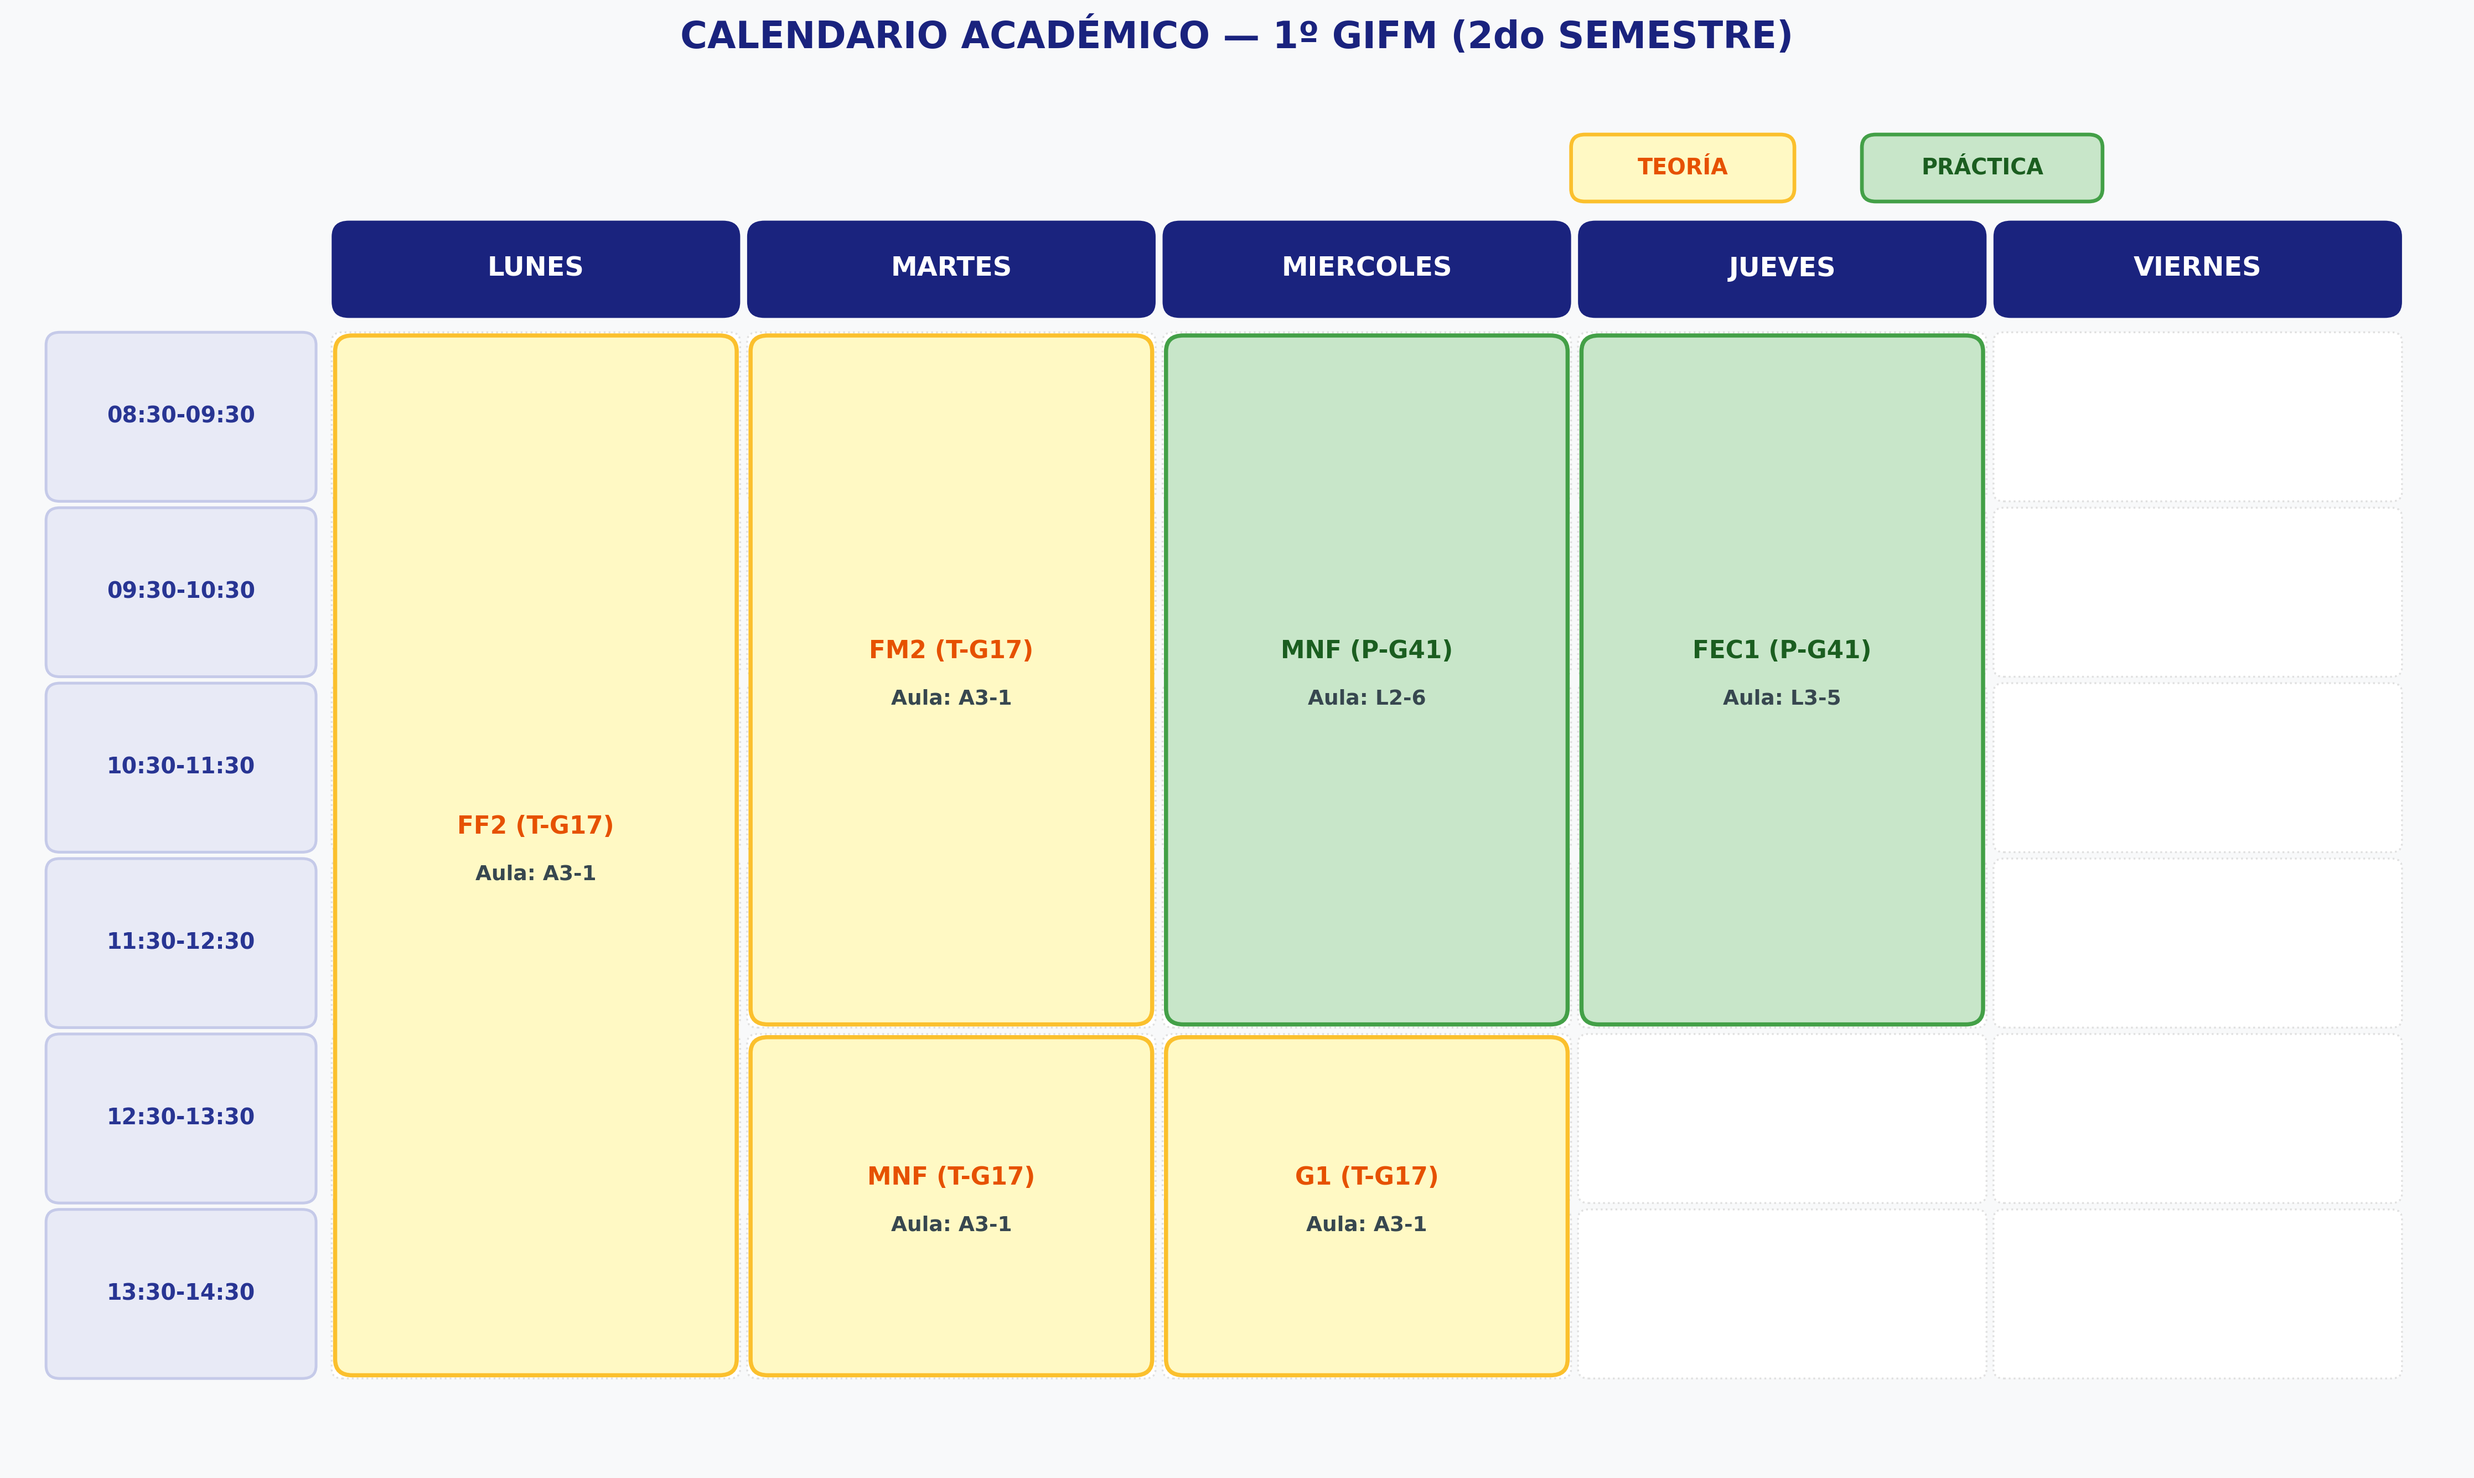
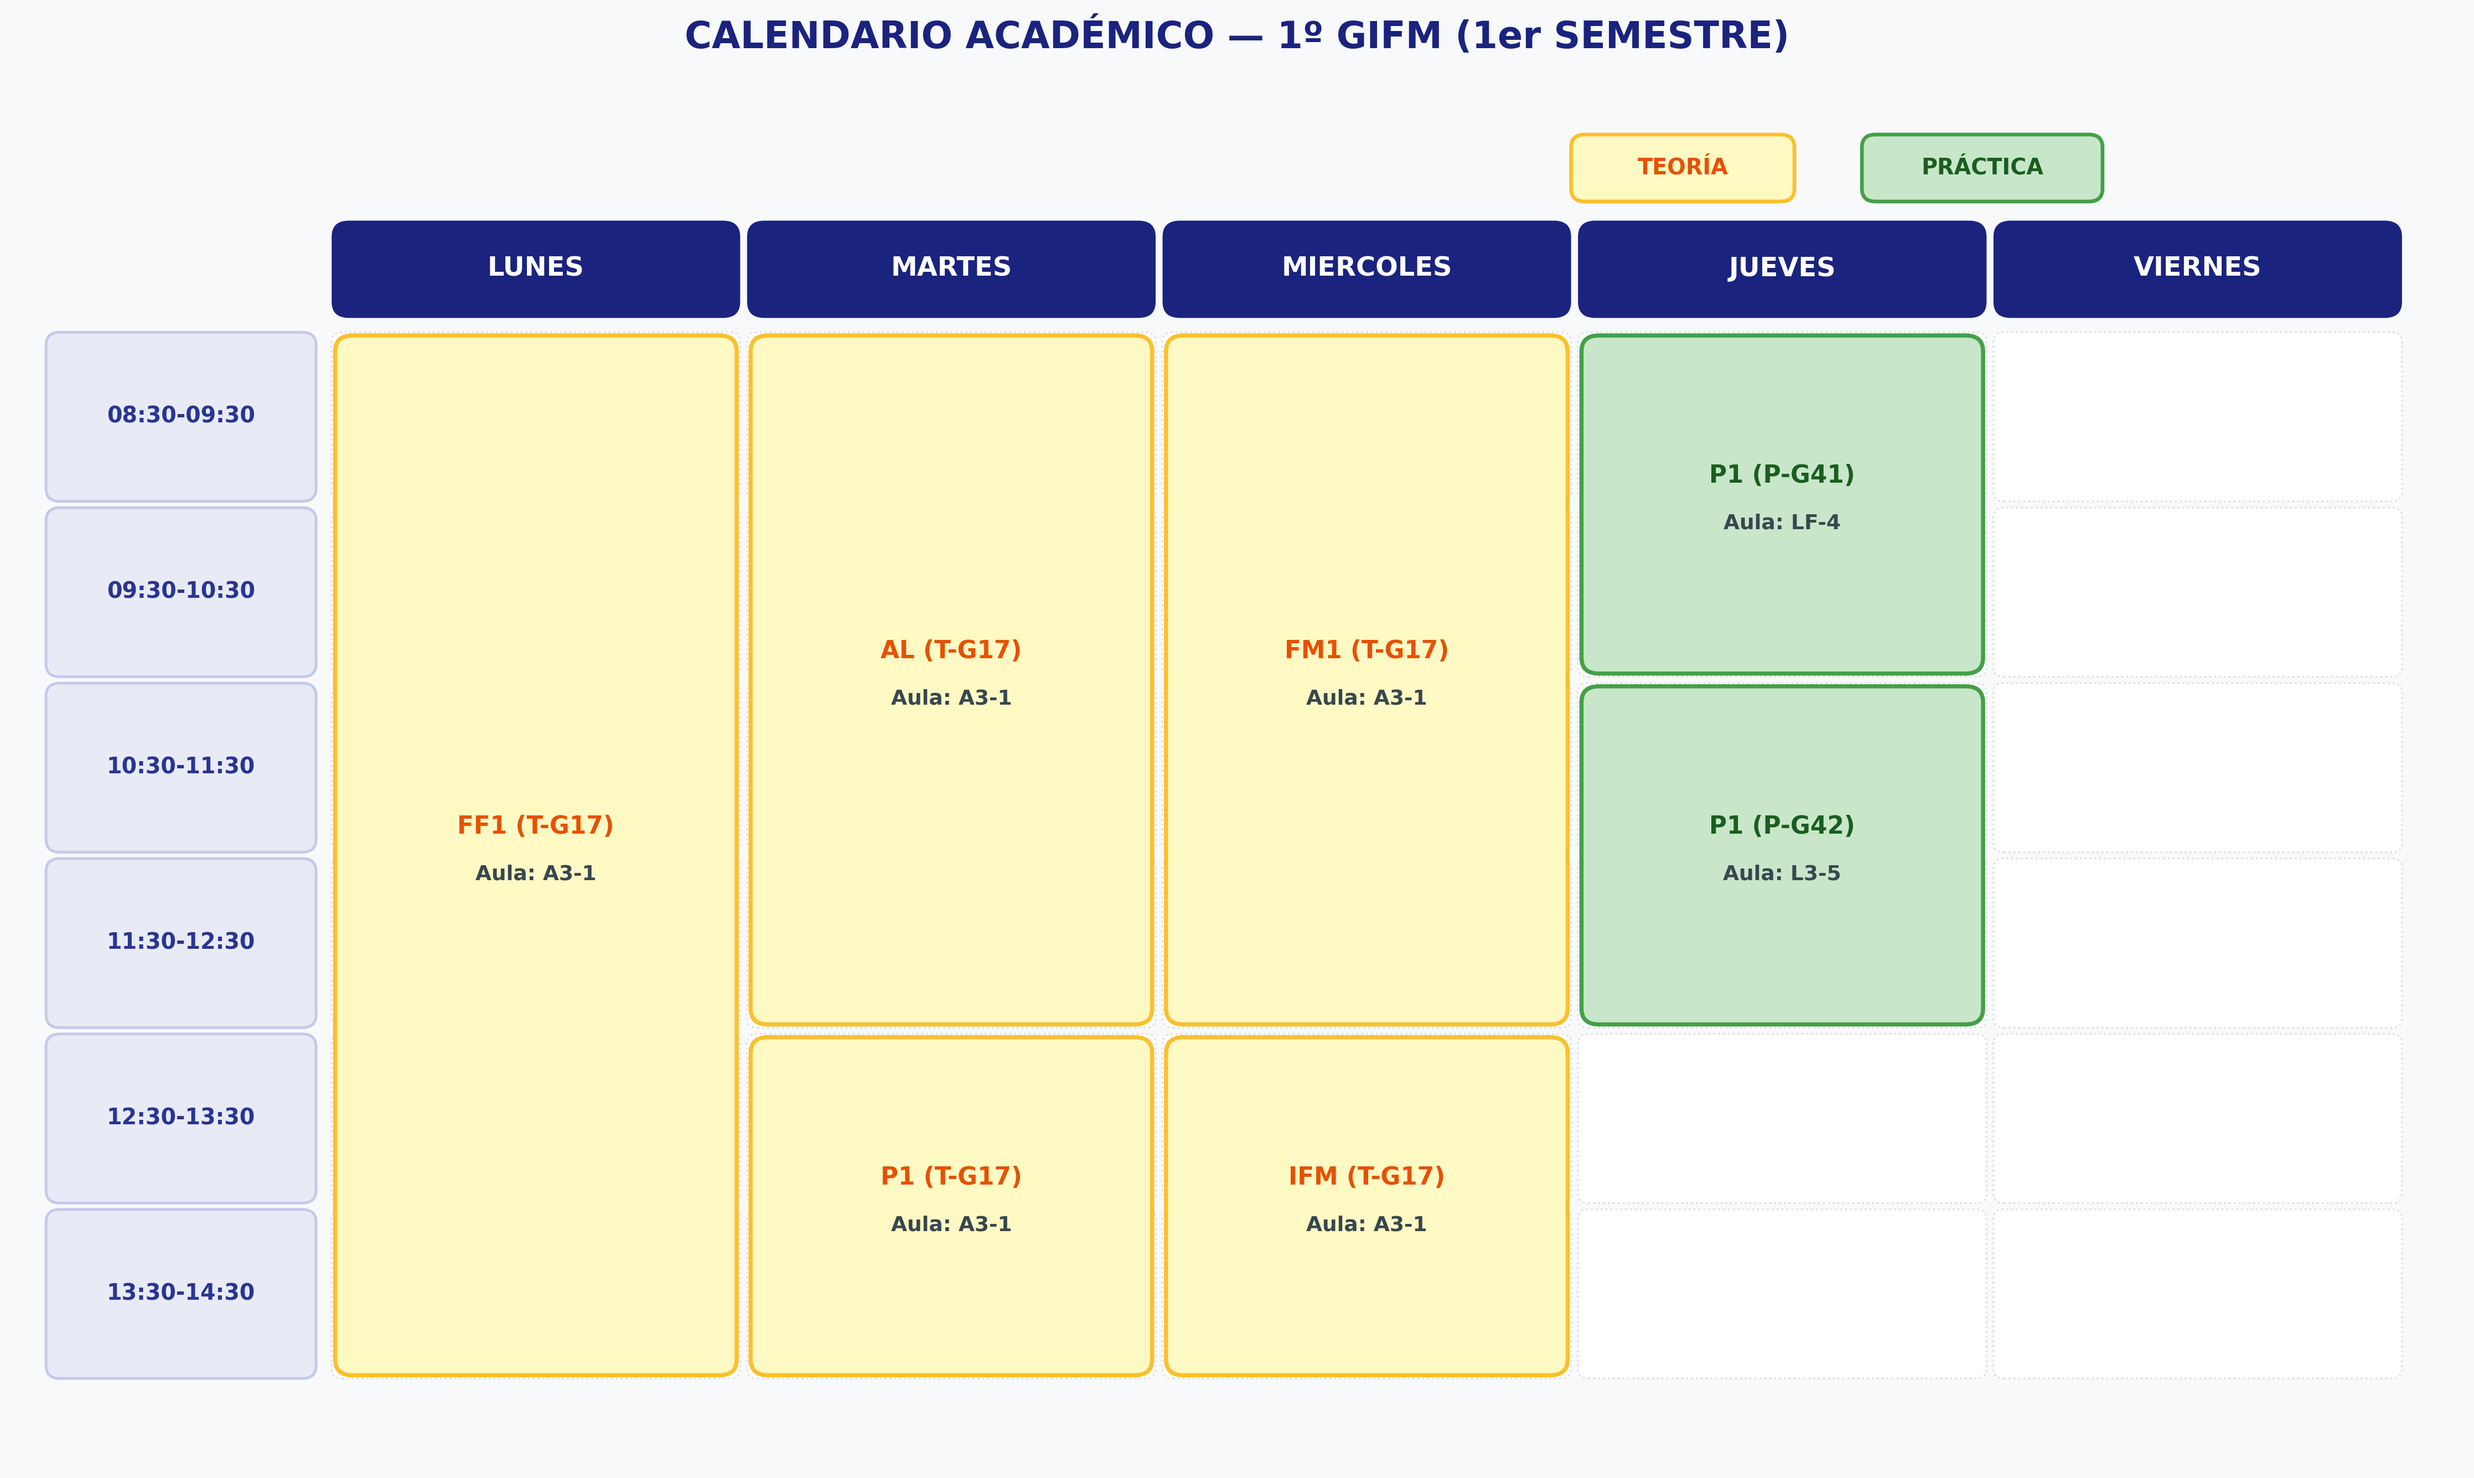
Añadir imagen del horario generado

diff --git a/src/visualizador.py b/src/visualizador.py
@@ -5,7 +5,7 @@ import matplotlib.pyplot as plt
 import matplotlib.patches as patches
 import pandas as pd
 
-def exportar_horario_png(df_resultado, ruta_salida="horario_1GIFM_2do.png", abrir_al_terminar=True):
+def exportar_horario_png(df_resultado, ruta_salida="horario_1GIFM_1er.png", abrir_al_terminar=True):
     """
     Exporta el horario a una imagen PNG de alta resolución diferenciando por colores
     Teoría (amarillo/cálido) vs Práctica (verde/esmeralda), y lo abre automáticamente.
@@ -146,7 +146,7 @@ def exportar_horario_png(df_resultado, ruta_salida="horario_1GIFM_2do.png", abri
     ax.set_ylim(0, len(horas) * row_height + y_offset + 1.4)
     ax.axis("off")
 
-    plt.title("CALENDARIO ACADÉMICO — 1º GIFM (2do SEMESTRE)", fontsize=16, fontweight="bold", pad=25, color="#1A237E")
+    plt.title("CALENDARIO ACADÉMICO — 1º GIFM (1er SEMESTRE)", fontsize=16, fontweight="bold", pad=25, color="#1A237E")
     plt.tight_layout()
     plt.savefig(ruta_salida, dpi=300, bbox_inches="tight")
     plt.close()

diff --git a/src/modelo_base.py b/src/modelo_base.py
@@ -25,7 +25,7 @@ def modelo_base():
     ]
 
     # 2. Leer las sesiones desde la carpeta datos/
-    ruta_clases = "datos/clases_2do_cuatri.csv"
+    ruta_clases = "datos/clases_1er_cuatri.csv"
     df_clases = pd.read_csv(ruta_clases)
     print(f"Cargadas con exito {len(df_clases)} sesiones desde '{ruta_clases}'.")
 
